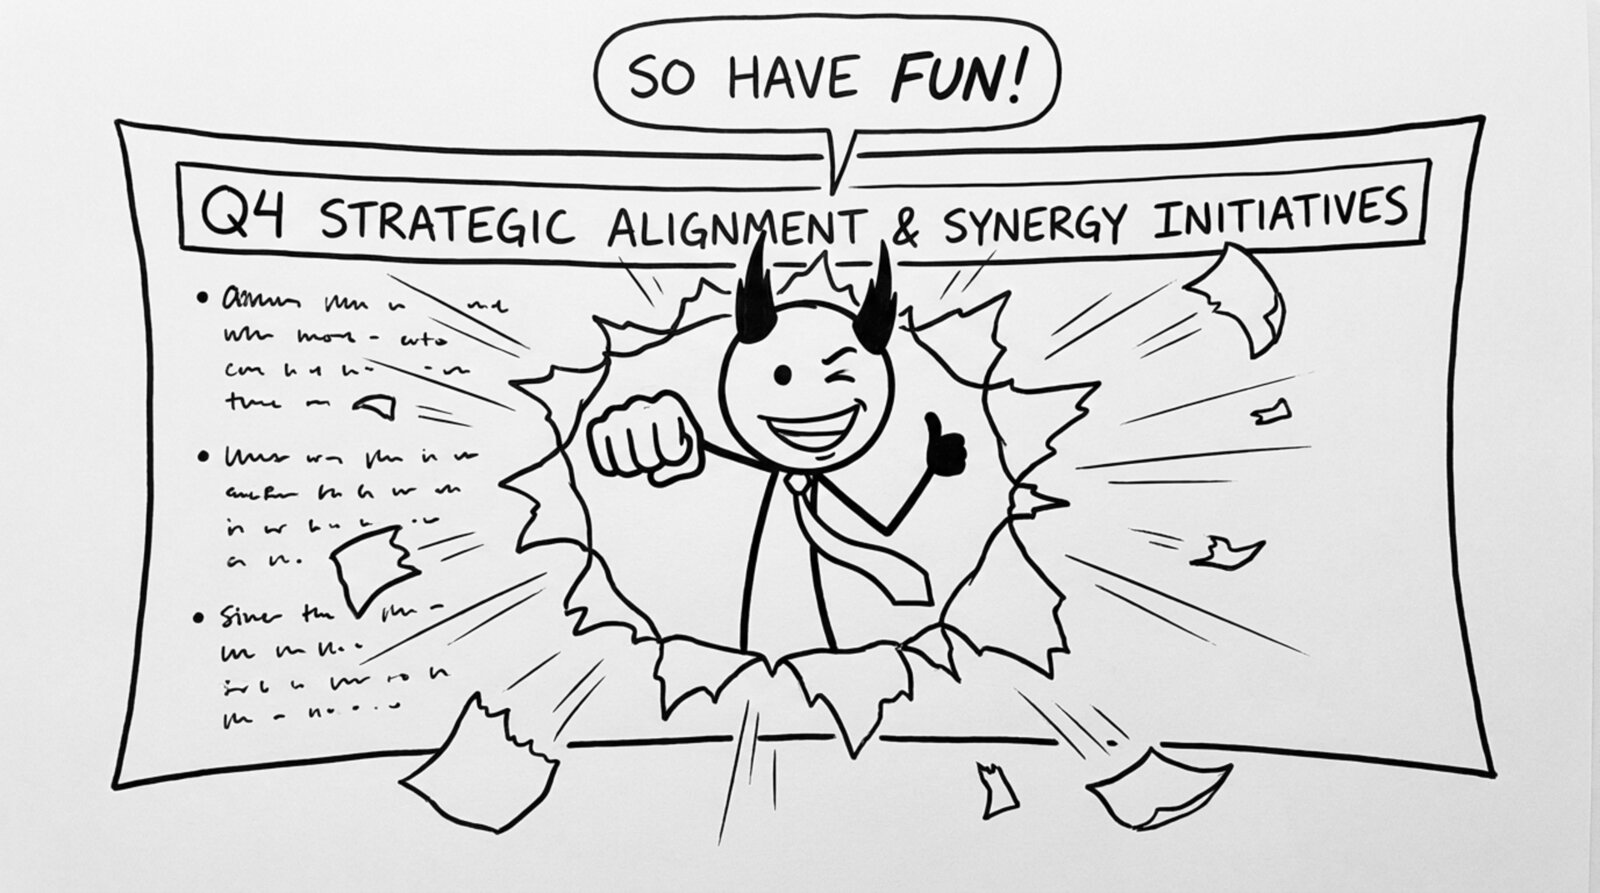
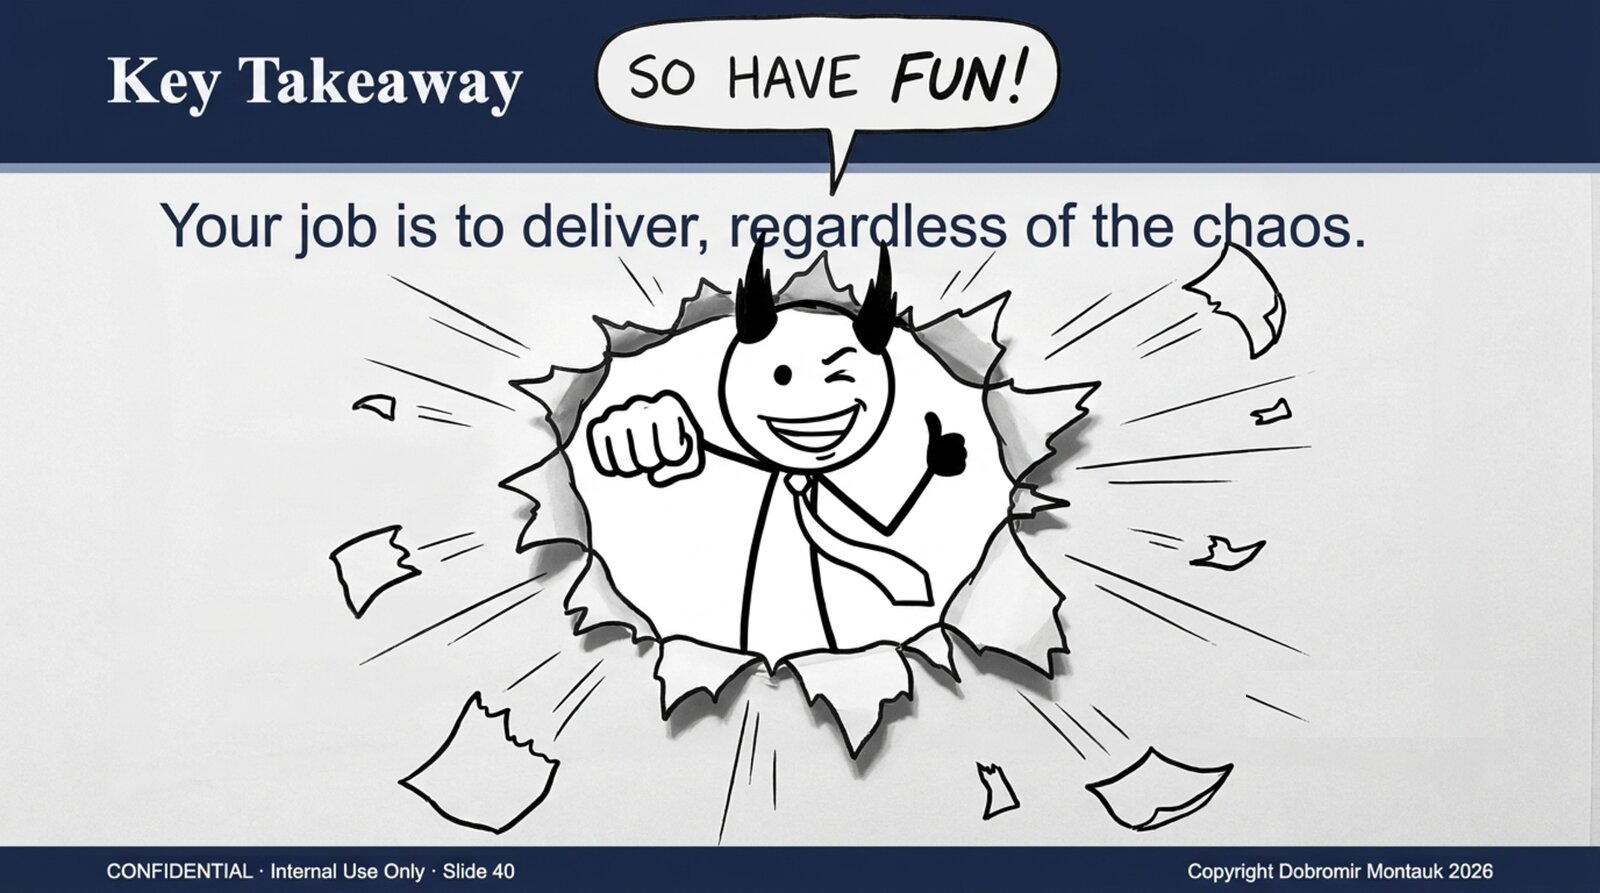
Winning vs capacity talk: So have fun! breaks through the real Key Takeaway slide

diff --git a/recipes/management/winning_vs_capacity/source/slides/have-fun.html b/recipes/management/winning_vs_capacity/source/slides/have-fun.html
@@ -1,5 +1,4 @@
 <section id="have-fun" data-transition="fade" style="display:flex; align-items:center; justify-content:center; padding:0; background:#fcfcfa">
-<img src="../images/have-fun-final.png" alt="The Manager bursts through a giant paper corporate slide like a football player through a banner, scraps flying, grinning and winking, fist forward and thumb up: SO HAVE FUN!" style="width:1920px; height:1080px; object-fit:contain; mix-blend-mode:multiply">
-<p style="position:absolute;left:0;bottom:10px;width:1920px;margin:0;text-align:center;font-family:'Patrick Hand', 'Trebuchet MS', sans-serif;font-size:22px;color:#8a8f98">Copyright Dobromir Montauk 2026</p>
+<img src="../images/have-fun2-public.png" alt="The Key Takeaway slide from a moment ago, Your job is to deliver, regardless of the chaos., is ripped open: the stick-figure Manager bursts through a jagged hole in it like a football player through a banner, scraps flying, grinning and winking, fist forward and thumb up: SO HAVE FUN!" style="width:1920px; height:1080px; object-fit:contain; mix-blend-mode:multiply">
 <aside><b>So have fun!</b> Drop the corporate voice. It's the hardest job I know and the most fun I've had. Thank you.</aside>
 </section>

diff --git a/recipes/management/winning_vs_capacity/outline.md b/recipes/management/winning_vs_capacity/outline.md
@@ -412,7 +412,7 @@ Running analogy: move a ton of bricks from Point A to Point B. Build the team, a
     - Notes (talk track): Flat, like the cover. Pause. It's true, and it sounds like nothing. Then click.
 
 41. **So have fun!** · Comic
-    - Comic: The Manager bursts through a giant paper corporate slide (Q4 STRATEGIC ALIGNMENT & SYNERGY INITIATIVES) like a football player through a banner, scraps flying, grinning and winking, fist forward and thumb up.
+    - Comic: The real Key Takeaway slide (40), rendered and then ripped open: the stick-figure Manager bursts through a jagged hole in it like a football player through a banner, scraps flying, grinning and winking, fist forward and thumb up.
     - Text: "SO HAVE FUN!"
     - Notes (talk track): Drop the corporate voice. It's the hardest job I know and the most fun I've had. Thank you.
 

diff --git a/recipes/management/winning_vs_capacity/README.md b/recipes/management/winning_vs_capacity/README.md
@@ -288,6 +288,6 @@ Copyright Dobromir Montauk 2026.
 
 > Flat, like the cover. Pause. It's true, and it sounds like nothing. Then click.
 
-![Slide 41: The Manager bursts through a giant paper corporate slide like a football player through a banner, scraps flying, grinning and winking, fist forward and thumb up: SO HAVE FUN!](slides/41.jpg)
+![Slide 41: The Key Takeaway slide from a moment ago, Your job is to deliver, regardless of the chaos., is ripped open: the stick-figure Manager bursts through a jagged hole in it like a football player through a banner, scraps flying, grinning and winking, fist forward and thumb up: SO HAVE FUN!](slides/41.jpg)
 
 > Drop the corporate voice. It's the hardest job I know and the most fun I've had. Thank you.
